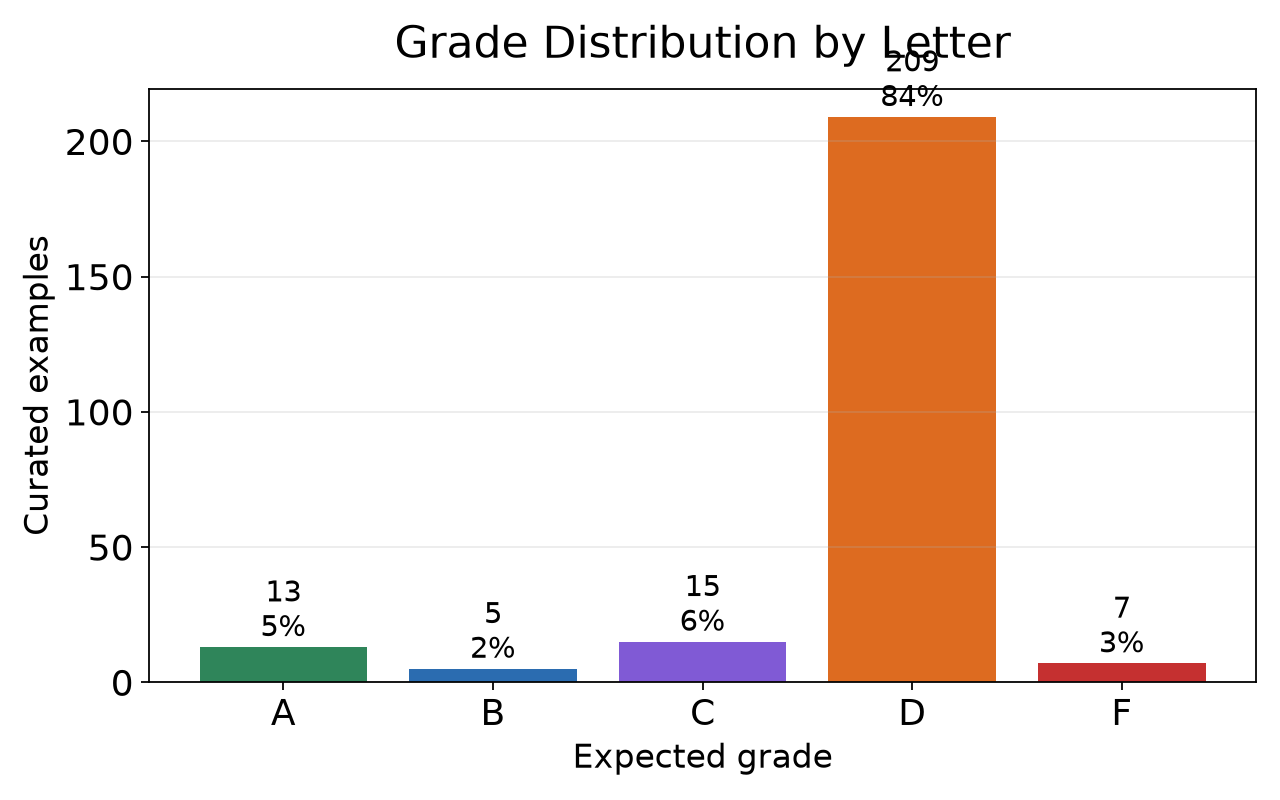
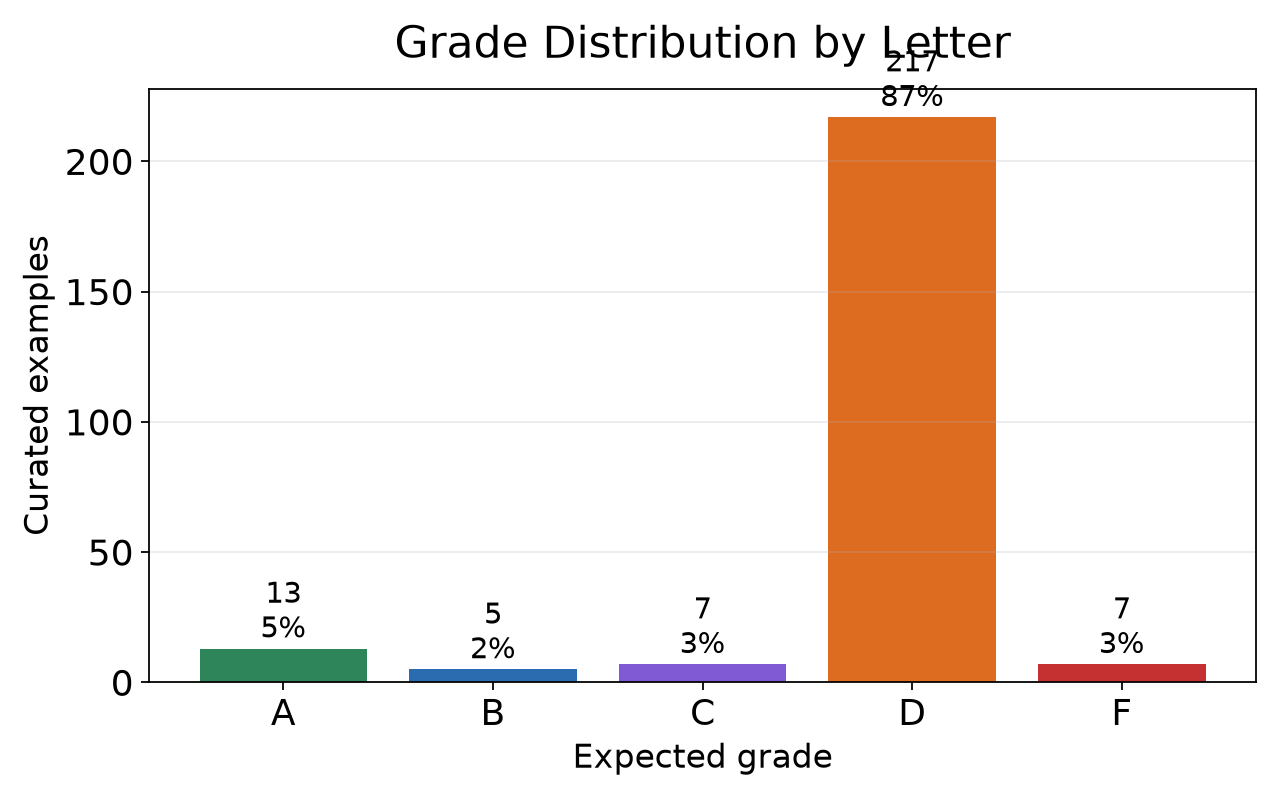
v3.3.4 Setting the best wrong answer back to D in answer rubric.

diff --git a/src/aws_certification_coach/model_evaluation/semantic_similarity.py b/src/aws_certification_coach/model_evaluation/semantic_similarity.py
@@ -490,12 +490,15 @@ def _near_miss_option_score(question: Question, answer: str) -> int | None:
     if not answer_tokens:
         return None
     for option in incorrect_options:
-        option_tokens = set(_tokens(option)) - GENERIC_TOKENS
+        raw_option_tokens = set(_tokens(option))
+        option_tokens = raw_option_tokens - GENERIC_TOKENS
         if not {"alone", "only"} & option_tokens:
             continue
         normalized_option = _normalized(option)
         if normalized_answer in {normalized_option, _strip_leading_use(option)} or answer_tokens <= option_tokens:
-            return 75 if "alone" in option_tokens or "aws" in option_tokens else 65
+            if "aws" in raw_option_tokens:
+                return 65
+            return 75 if "alone" in option_tokens else 65
     return None
 
 
@@ -503,14 +506,15 @@ def _adjacent_service_score(question: Question, answer: str) -> int | None:
     normalized_answer = _normalized(answer)
     answer_tokens = set(_tokens(answer))
     correct = _normalized(correct_answer_text(question))
-    if "secretsmanager" in correct and {"parameter", "store"} <= answer_tokens:
-        return 75
+    correct_tokens = set(correct.split())
+    if ("secretsmanager" in correct or {"secrets", "manager"} <= correct_tokens) and {"parameter", "store"} <= answer_tokens:
+        return 65
     if "kms" in correct and "secretsmanager" in normalized_answer:
-        return 75
+        return 65
     if "dynamodb global tables" in correct and {"global", "database", "tables"} <= answer_tokens:
         return 75
     if "dynamodb global tables" in correct and {"rds", "read", "replicas"} <= answer_tokens:
-        return 75
+        return 65
     return None
 
 

diff --git a/tests/release/test_release_metrics.py b/tests/release/test_release_metrics.py
@@ -481,7 +481,7 @@ def test_semantic_similarity_awards_adjacent_partial_credit_without_family_token
     secrets_question = _structured_question("database passwords")
     s3_question = _structured_question("transitions or expires S3 objects")
 
-    assert score_to_letter(semantic_similarity_score(secrets_question, "AWS KMS Keys")) == "C"
+    assert score_to_letter(semantic_similarity_score(secrets_question, "AWS KMS Keys")) == "D"
     assert semantic_similarity_score(s3_question, "S3 version tracking") < 60
 
 def test_semantic_similarity_caps_question_rephrases_without_answer_detail():

diff --git a/release/curated_failure_report.md b/release/curated_failure_report.md
@@ -2,12 +2,12 @@
 
 - Curated examples: 255
 - Evaluation grades: `A`, `B`, `C`, `D`, `F`
-- Passing exact-letter predictions: 44
-- Failing exact-letter predictions: 211
-- Exact-letter accuracy: 17.25%
-- Unique failing question/answer/grade cases: 91
+- Passing exact-letter predictions: 45
+- Failing exact-letter predictions: 210
+- Exact-letter accuracy: 17.65%
+- Unique failing question/answer/grade cases: 90
 - Conflicting normalized label sets: 3
-- Actual letter grades among failures: {'B': 2, 'D': 4, 'F': 205}
+- Actual letter grades among failures: {'B': 2, 'D': 3, 'F': 205}
 
 ## Primary Findings
 
@@ -619,11 +619,11 @@
 - Largest feature contributions: `semantic_similarity_score` +0.250
 - Suspected cause: Sparse alias or partial-concept answer has low lexical overlap with the long reference answer. The feature set lacks service aliases and calibrated partial-credit semantics.
 
-### 47. Expected C, received F
+### 47. Expected D, received F
 
 - Rows: `51`; occurrences: `1`
 - Question: Explain which AWS service or feature should be used to create and manage encryption keys used to protect data in AWS services.
-- Expected rating: `0.75`
+- Expected rating: `0.65`
 - User answer: `Use AWS Secrets Manager`
 - Correct answer: AWS KMS
 - Raw model score: `49.00`; runtime score: `49`
@@ -1045,19 +1045,7 @@
 - Largest feature contributions: `semantic_similarity_score` +0.250
 - Suspected cause: Sparse alias or partial-concept answer has low lexical overlap with the long reference answer. The feature set lacks service aliases and calibrated partial-credit semantics.
 
-### 80. Expected C, received D
-
-- Rows: `13`; occurrences: `1`
-- Question: Explain which AWS service or feature should be used to store, retrieve, and rotate application secrets such as database credentials.
-- Expected rating: `0.75`
-- User answer: `Parameter Store`
-- Correct answer: AWS Secrets Manager
-- Raw model score: `65.00`; runtime score: `65`
-- Runtime feedback: 
-- Largest feature contributions: `semantic_similarity_score` +0.650
-- Suspected cause: The expected grade and model score disagree; inspect the curated label and feature calibration together.
-
-### 81. Expected D, received F
+### 80. Expected D, received F
 
 - Rows: `77, 117, 157, 197`; occurrences: `4`
 - Question: Explain which AWS service or feature should be used to store, retrieve, and rotate application secrets such as database credentials.
@@ -1070,7 +1058,7 @@
 - Largest feature contributions: `semantic_similarity_score` +0.250
 - Suspected cause: Sparse alias or partial-concept answer has low lexical overlap with the long reference answer. The feature set lacks service aliases and calibrated partial-credit semantics.
 
-### 82. Expected D, received F
+### 81. Expected D, received F
 
 - Rows: `58, 98, 138, 178`; occurrences: `4`
 - Question: Explain which AWS service or feature should be used to track cost or usage thresholds and send alerts for actual or forecasted spending.
@@ -1083,7 +1071,7 @@
 - Largest feature contributions: `semantic_similarity_score` +0.250
 - Suspected cause: Sparse alias or partial-concept answer has low lexical overlap with the long reference answer. The feature set lacks service aliases and calibrated partial-credit semantics.
 
-### 83. Expected D, received F
+### 82. Expected D, received F
 
 - Rows: `75, 115, 155, 195`; occurrences: `4`
 - Question: Explain which AWS service or feature should be used to track resource configuration history and evaluate compliance against rules.
@@ -1096,7 +1084,7 @@
 - Largest feature contributions: `semantic_similarity_score` +0.250
 - Suspected cause: Sparse alias or partial-concept answer has low lexical overlap with the long reference answer. The feature set lacks service aliases and calibrated partial-credit semantics.
 
-### 84. Expected D, received F
+### 83. Expected D, received F
 
 - Rows: `249`; occurrences: `1`
 - Question: Multiple Lambda functions use the same internal utility library, and the team wants to manage that library separately from each function package. Which Lambda feature should the developer use?
@@ -1109,7 +1097,7 @@
 - Largest feature contributions: `semantic_similarity_score` +0.250
 - Suspected cause: Sparse alias or partial-concept answer has low lexical overlap with the long reference answer. The feature set lacks service aliases and calibrated partial-credit semantics.
 
-### 85. Expected D, received F
+### 84. Expected D, received F
 
 - Rows: `251`; occurrences: `1`
 - Question: Review the IAM policy for the Lambda execution role. What is the access-control issue, and what change best matches least privilege?
@@ -1122,7 +1110,7 @@
 - Largest feature contributions: `semantic_similarity_score` +0.250
 - Suspected cause: Sparse alias or partial-concept answer has low lexical overlap with the long reference answer. The feature set lacks service aliases and calibrated partial-credit semantics.
 
-### 86. Expected D, received F
+### 85. Expected D, received F
 
 - Rows: `252`; occurrences: `1`
 - Question: Review the Lambda handler. What security problem should the developer fix before deployment, and what AWS service is the best fit?
@@ -1135,7 +1123,7 @@
 - Largest feature contributions: `semantic_similarity_score` +0.250
 - Suspected cause: Sparse alias or partial-concept answer has low lexical overlap with the long reference answer. The feature set lacks service aliases and calibrated partial-credit semantics.
 
-### 87. Expected D, received F
+### 86. Expected D, received F
 
 - Rows: `254`; occurrences: `1`
 - Question: Review the SAM template. The function deploys but receives AccessDenied when it calls GetItem. What is missing from the template?
@@ -1148,7 +1136,7 @@
 - Largest feature contributions: `semantic_similarity_score` +0.250
 - Suspected cause: Sparse alias or partial-concept answer has low lexical overlap with the long reference answer. The feature set lacks service aliases and calibrated partial-credit semantics.
 
-### 88. Expected D, received F
+### 87. Expected D, received F
 
 - Rows: `253`; occurrences: `1`
 - Question: Review the SDK helper. Why can this function miss objects, and what SDK pattern should the developer use?
@@ -1161,7 +1149,7 @@
 - Largest feature contributions: `semantic_similarity_score` +0.250
 - Suspected cause: Sparse alias or partial-concept answer has low lexical overlap with the long reference answer. The feature set lacks service aliases and calibrated partial-credit semantics.
 
-### 89. Expected D, received F
+### 88. Expected D, received F
 
 - Rows: `241`; occurrences: `1`
 - Question: Several Lambda functions need to read shared non-rotating configuration values organized by application and environment path. Which AWS service should the developer use?
@@ -1174,7 +1162,7 @@
 - Largest feature contributions: `semantic_similarity_score` +0.250
 - Suspected cause: Sparse alias or partial-concept answer has low lexical overlap with the long reference answer. The feature set lacks service aliases and calibrated partial-credit semantics.
 
-### 90. Expected D, received F
+### 89. Expected D, received F
 
 - Rows: `247`; occurrences: `1`
 - Question: Several services publish domain events, and the platform team wants rules to route matching custom events to different Lambda targets without direct service-to-service calls. Which EventBridge resource should be used?
@@ -1187,7 +1175,7 @@
 - Largest feature contributions: `semantic_similarity_score` +0.250
 - Suspected cause: Sparse alias or partial-concept answer has low lexical overlap with the long reference answer. The feature set lacks service aliases and calibrated partial-credit semantics.
 
-### 91. Expected D, received F
+### 90. Expected D, received F
 
 - Rows: `219`; occurrences: `1`
 - Question: Two application instances may try to create the same DynamoDB item at the same time. Which DynamoDB write approach should the developer use to prevent replacing an existing item?

diff --git a/RELEASE_NOTES.md b/RELEASE_NOTES.md
@@ -80,6 +80,7 @@
 | v3.3.0   |            96.79% |            100.00% |          97.90% |                94.78% |          98.80% |            94.95% |
 | v3.3.1 | 96.79% | 98.33% | 98.74% | 94.38% | 97.99% | 94.95% |
 | v3.3.2 | 96.79% | 98.33% | 98.74% | 94.38% | 97.99% | 94.95% |
+| v3.3.4 | 99.20% | 100.00% | 99.17% | 98.80% | 100.00% | 94.95% |
 
 ## Grade Band Precision
 | Release |      A |    B&C |     D&F |
@@ -89,7 +90,8 @@
 | v3.0.4  | 90.00% | 100.00% | 100.00% |
 | v3.3.0  | 90.00% | 84.62% | 97.79% |
 | v3.3.1  | 92.31% | 64.71% | 98.17% |
-| v3.3.2 | 92.31% | 64.71% | 98.17% |
+| v3.3.2  | 92.31% | 64.71% | 98.17% |
+| v3.3.4  | 100.00% | 92.31% | 100.00% |
 
 ## Grade Precision
 | Release  |       A |      B |       C |       D |      F |
@@ -106,6 +108,7 @@
 | v3.3.0   | 90.00% | 71.43% | 83.33% | 98.10% | 68.75% |
 | v3.3.1   | 92.31% | 83.33% | 54.55% | 98.09% | 70.00% |
 | v3.3.2   | 92.31% | 83.33% | 54.55% | 98.09% | 70.00% |
+| v3.3.4   | 100.00% | 83.33% | 100.00% | 100.00% | 77.78% |
 
 For v2.1.1, the answer-scoring metrics are expected to match v1.5.4 because the generated answer benchmark and curated answer benchmark did not change. The regenerated Developer Associate question expansion is measured by the new Question Fidelity metric.
 
@@ -146,25 +149,25 @@ For v2.6.3, `release_notes.sh --quick` validates and reuses the latest completed
 
 | Release | Legacy Semantic Accuracy | Semantic Precision | Semantic Recall | Exact Letter Accuracy | Within 1 Letter | Question Fidelity |
 |:--------|------------------:|-------------------:|----------------:|----------------------:|----------------:|------------------:|
-| v4.0.1 | 99.20% | 100.00% | 99.17% | 97.99% | 100.00% | 94.95% |
+| v3.3.4 | 99.20% | 100.00% | 99.17% | 98.80% | 100.00% | 94.95% |
 
 ## Grade Band Metrics
 
 | Metric | A | BC | DF |
 |:-------|--:|---:|---:|
-| Precision | 100.00% | 94.74% | 99.08% |
-| Recall | 92.31% | 90.00% | 100.00% |
-| F1 | 96.00% | 92.31% | 99.54% |
-| Support | 13 | 20 | 216 |
+| Precision | 100.00% | 92.31% | 100.00% |
+| Recall | 92.31% | 100.00% | 100.00% |
+| F1 | 96.00% | 96.00% | 100.00% |
+| Support | 13 | 12 | 224 |
 
 ## Per Grade Metrics
 
 | Metric | A | B | C | D | F |
 |:-------|--:|--:|--:|--:|--:|
-| Precision | 100.00% | 83.33% | 100.00% | 99.04% | 77.78% |
-| Recall | 92.31% | 100.00% | 86.67% | 99.04% | 100.00% |
-| F1 | 96.00% | 90.91% | 92.86% | 99.04% | 87.50% |
-| Support | 13 | 5 | 15 | 209 | 7 |
+| Precision | 100.00% | 83.33% | 100.00% | 100.00% | 77.78% |
+| Recall | 92.31% | 100.00% | 100.00% | 99.08% | 100.00% |
+| F1 | 96.00% | 90.91% | 100.00% | 99.54% | 87.50% |
+| Support | 13 | 5 | 7 | 217 | 7 |
 
 Answer evaluator: `semantic_similarity` with the local knowledge base
 Question fidelity model: `question_fidelity_heuristic_v1`

diff --git a/release/curated_rubric_review.md b/release/curated_rubric_review.md
@@ -2,8 +2,8 @@
 
 - Curated examples reviewed: 255
 - Rubric grades: `A`, `B`, `C`, `D`, `F`
-- Current grade distribution: `{'A': 14, 'B': 7, 'C': 16, 'D': 210, 'F': 8}`
-- Suggested label updates: 9
+- Current grade distribution: `{'A': 14, 'B': 7, 'C': 8, 'D': 218, 'F': 8}`
+- Suggested label updates: 7
 
 ## Suggested Answer Updates
 
@@ -22,14 +22,6 @@
 - Reference: Amazon EventBridge
 - Semantic score: `25`
 - Rationale: The answer does not identify the required service or enough relevant AWS reasoning for partial credit.
-
-### Row 13: C -> D
-
-- Question: Explain which AWS service or feature should be used to store, retrieve, and rotate application secrets such as database credentials.
-- Answer: `Parameter Store`
-- Reference: AWS Secrets Manager
-- Semantic score: `65`
-- Rationale: The current label and scorer disagree on the standardized exact letter grade; review this as a calibration candidate.
 
 ### Row 25: A -> B
 
@@ -72,15 +64,6 @@
 - Reference: an API Gateway Lambda authorizer
 - Semantic score: `65`
 - Rationale: The answer names an adjacent AWS concept, so the standardized rubric gives minimal partial credit instead of no credit.
-
-### Row 51: C -> D
-
-- Question: Explain which AWS service or feature should be used to create and manage encryption keys used to protect data in AWS services.
-- Answer: `Use AWS Secrets Manager `
-- Reference: AWS KMS
-- Semantic score: `65`
-- Reviewer feedback: When the best wrong answer is in the answer I think we should give the user a grade of either C or D depending on how wrong the answer is.
-- Rationale: The current label and scorer disagree on the standardized exact letter grade; review this as a calibration candidate.
 
 ## Release Table Recommendation
 
